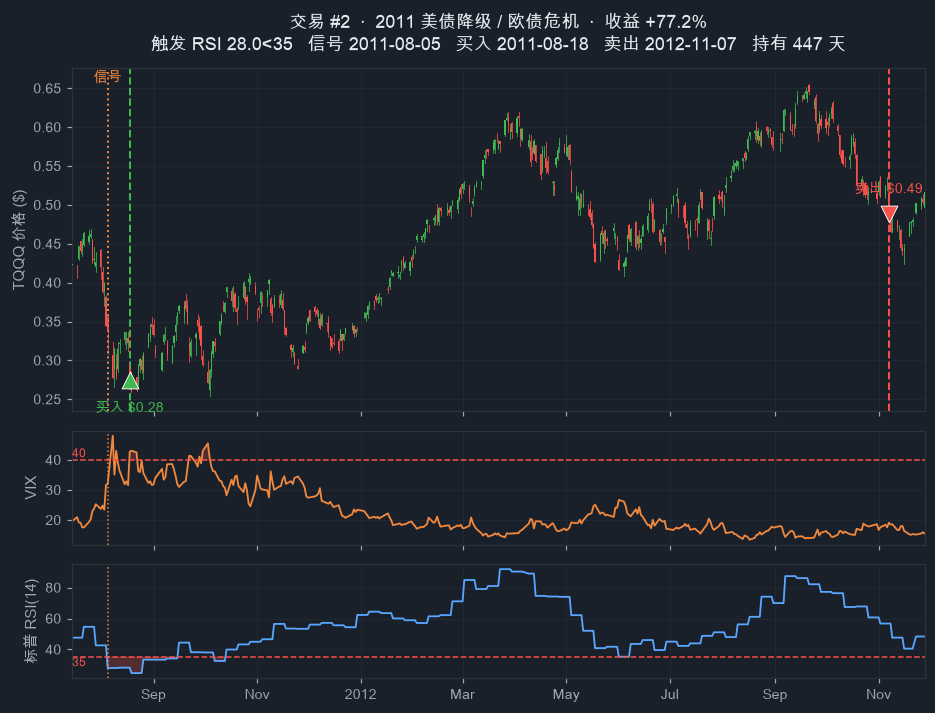
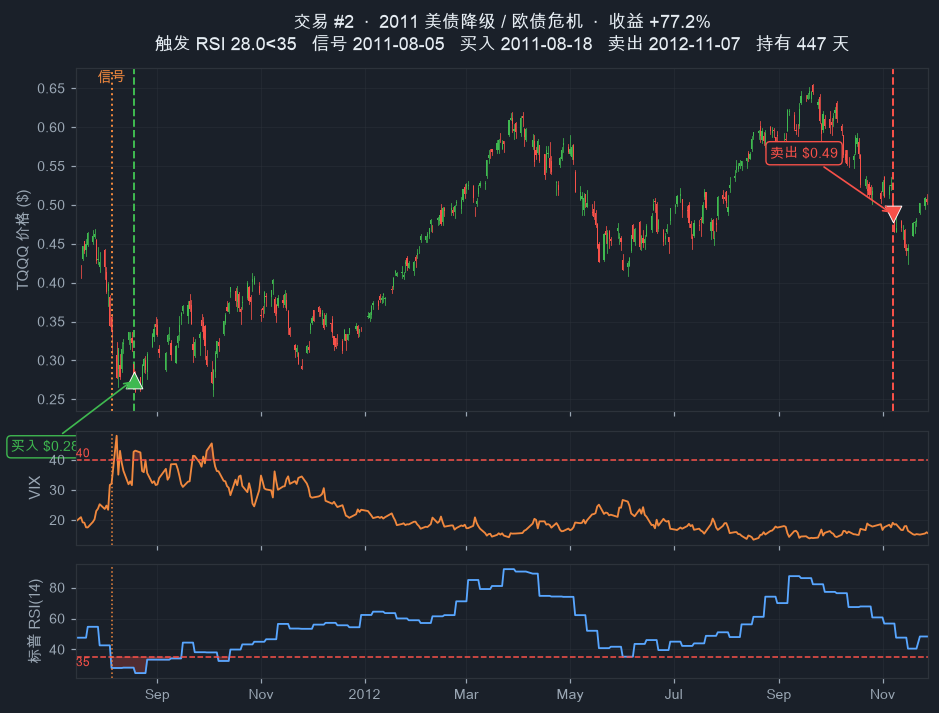
Per-trade charts: arrowed/boxed buy-sell labels; open trade trailing 1yr right-aligned
Buy/sell price labels now sit in a bordered box off the candles with an arrow
to the marker. The still-open trade now shows the trailing 1 year of data with
the latest date flush to the right border (was forward-looking blank year).

diff --git a/src/plot_trades.py b/src/plot_trades.py
@@ -79,8 +79,13 @@ def main():
         exit_d = pd.Timestamp(t["Exit_Date"])
         is_open = t.get("Open_At_End") is True
 
-        start = sig - PAD
-        end = (ent + pd.Timedelta(days=365)) if is_open else (exit_d + PAD)
+        if is_open:
+            # show the trailing 1 year of data, latest date flush to the right border
+            end = last_date
+            start = last_date - pd.Timedelta(days=365)
+        else:
+            start = sig - PAD
+            end = exit_d + PAD
         data_end = min(end, last_date)
         tq = tqqq.loc[start:data_end]
         dd = df.loc[start:data_end]
@@ -106,9 +111,11 @@ def main():
         ax1.axvline(ent, color=UP, ls="--", lw=1.3)
         ax1.scatter([ent], [t["Entry_Price"]], marker="^", s=120,
                     color=UP, edgecolor="white", lw=0.6, zorder=5)
-        ax1.annotate(f"买入 ${t['Entry_Price']:.2f}", (ent, t["Entry_Price"]),
-                     color=UP, fontsize=9, ha="center", va="top",
-                     xytext=(0, -14), textcoords="offset points")
+        ax1.annotate(f"买入 ${t['Entry_Price']:.2f}", xy=(ent, t["Entry_Price"]),
+                     xytext=(-58, -44), textcoords="offset points",
+                     color=UP, fontsize=9, ha="center", va="center", zorder=6,
+                     arrowprops=dict(arrowstyle="->", color=UP, lw=1.1),
+                     bbox=dict(boxstyle="round,pad=0.3", fc=BG, ec=UP, lw=0.9))
         ax1.annotate("信号", (sig, tq["High"].max()), color=ORANGE, fontsize=9,
                      ha="center", va="bottom")
 
@@ -116,9 +123,11 @@ def main():
             ax1.axvline(exit_d, color=DOWN, ls="--", lw=1.3)
             ax1.scatter([exit_d], [t["Exit_Price"]], marker="v", s=120,
                         color=DOWN, edgecolor="white", lw=0.6, zorder=5)
-            ax1.annotate(f"卖出 ${t['Exit_Price']:.2f}", (exit_d, t["Exit_Price"]),
-                         color=DOWN, fontsize=9, ha="center", va="bottom",
-                         xytext=(0, 12), textcoords="offset points")
+            ax1.annotate(f"卖出 ${t['Exit_Price']:.2f}", xy=(exit_d, t["Exit_Price"]),
+                         xytext=(-58, 40), textcoords="offset points",
+                         color=DOWN, fontsize=9, ha="center", va="center", zorder=6,
+                         arrowprops=dict(arrowstyle="->", color=DOWN, lw=1.1),
+                         bbox=dict(boxstyle="round,pad=0.3", fc=BG, ec=DOWN, lw=0.9))
             exit_lbl = exit_d.strftime("%Y-%m-%d")
         else:
             hold_end = ent + pd.Timedelta(days=365)
